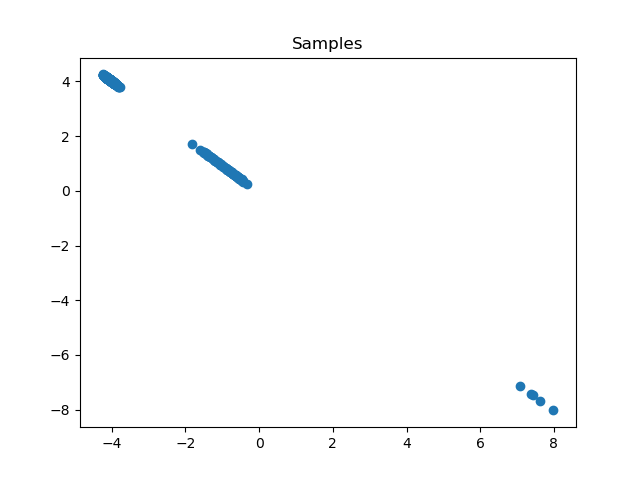
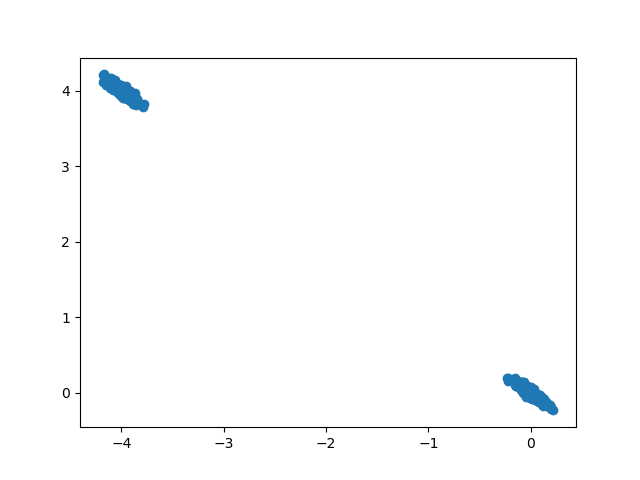
pigdm comparison p(x_0 | x_t)

diff --git a/utils/pigdm_approximations.py b/utils/pigdm_approximations.py
@@ -1,0 +1,63 @@
+import torch
+from torch.distributions.multivariate_normal import MultivariateNormal
+from models.utils import get_score_fn
+from utils.datasets import Gaussian, GaussianMixture
+from plots import plot_data
+import numpy as np
+
+#Samples from p(x_0 | x_t) = N(hat_x_t, r_t ^2 I), the approximated distribution in Pseudoinverse Guided
+#Diffusion Models.
+def pigdm_approximation(sde, model, x_t, t, num_samples, device, continuous=True):
+    x_t = x_t.unsqueeze(0)
+    score_fn = get_score_fn(sde, model, continuous=continuous)
+    sigma_t = sde.marginal_prob(x_t, t)[1]
+    r_t = torch.sqrt(torch.tensor((sigma_t ** 2) / (sigma_t ** 2 + 1))).to(device)
+    vec_t = torch.ones(x_t.shape[0], device=device) * t
+    hat_x = x_t + sigma_t * sigma_t * score_fn(x_t, vec_t)
+    std = r_t * r_t * torch.eye(x_t.shape[1]).to(device)
+    std = std.unsqueeze(0)
+    return GaussianMixture(num_samples=num_samples, mean=hat_x.cpu(), std=std.cpu())
+
+#Samples from p(x_0 | x_t) = p(x_t | x_0) p(x_0) / p(x_t), given that p(x_0) is a known Gaussian mixture.
+def true_x0_xt_density(sde, prior, x_t, t, num_samples):
+    sigma_t = sde.marginal_prob(x_t, t)[1].cpu()
+    sigma_0 = sde.marginal_prob(x_t, 0)[1]
+
+    mean = prior.mean.cpu()
+    cov = prior.cov.cpu()
+
+    new_cov = torch.inverse(torch.eye(2) / (sigma_t ** 2 - sigma_0 ** 2) + torch.inverse(cov))
+    new_mean = []
+    
+    for i in range(len(mean)):
+        new_mean.append(torch.matmul(new_cov, torch.matmul(torch.inverse(cov), mean[i])))
+
+    new_mean = torch.stack(new_mean, dim=0)
+
+    n = len(mean)
+
+    var_x_t = cov + torch.eye(2) * sigma_t ** 2
+    var_x_t = torch.maximum(var_x_t, torch.tensor(1e-6)).cpu()
+
+    denominator = 0
+    for i in range(n):
+        denominator += (1 / n) * torch.exp(MultivariateNormal(mean[i].cpu(), var_x_t).log_prob(x_t.cpu()))
+    
+    weights = []
+    for i in range(n):
+        gauss_pdf = MultivariateNormal(mean[i].cpu(), var_x_t)
+        numerator = (1 / n) * torch.exp(gauss_pdf.log_prob(x_t.cpu()))
+        weights.append((numerator / denominator).item())
+    
+    weights = np.array(weights)
+    weights /= weights.sum()
+    print(weights)
+    pdf = GaussianMixture(num_samples, new_mean, new_cov, prior=weights)
+    return pdf
+
+
+def compare(sde, model, x_t, t, num_samples, device, prior, approx_path, true_path):
+    approx = pigdm_approximation(sde, model, x_t, t, num_samples, device)
+    true = true_x0_xt_density(sde, prior, x_t, t, num_samples)
+    plot_data([approx.data.detach().cpu()], 'Approximated p(x_0 | x_t)', approx_path)
+    plot_data([true.data.detach().cpu()], 'True p(x_0 | x_t)', true_path)

diff --git a/pigdm.py b/pigdm.py
@@ -5,6 +5,7 @@ from tqdm import tqdm
 import torch
 from torch.utils.data import DataLoader
 from torch.optim import Adam
+from torch.distributions.multivariate_normal import MultivariateNormal
 
 from models.mlp import MLP, Network
 from models.utils import get_score_fn
@@ -24,6 +25,14 @@ def subprocess(args):
     config = dict2namespace(config)
     device = torch.device('cuda:3' if torch.cuda.is_available() else 'cpu')
     print('Using {} device'.format(device))
+
+    basedir = config.log.basedir
+    basedir = os.path.join('exp', basedir)
+    os.makedirs(basedir, exist_ok=True)
+    figsdir = os.path.join(basedir, 'figs')
+    os.makedirs(figsdir, exist_ok=True)
+    ckptsdir = os.path.join(basedir, 'ckpts')
+    os.makedirs(ckptsdir, exist_ok=True)
 
     model = Network(device).to(device)
     print("Loading preset weights from {}".format(config.model.ckpt_path))
@@ -61,11 +70,27 @@ def subprocess(args):
     
     start_x = torch.randn(sample_shape, device=device)
 
-    samples = sample_fn(model, y, H, std_y, start_x=start_x)
+    # approx = pigdm_approximation(sde, model, start_x[0], 1., num_samples, device, continuous=config.train.continuous)
+    # true = true_x0_xt_density(sde, prior, start_x[0], 1., num_samples)
+
+    out_dir = os.path.join(basedir, 'compare')
+
+    samples = sample_fn(model, y, H, std_y, prior=prior, start_x=start_x, out_dir=out_dir)
 
     posterior = compute_posterior(prior, y, H, std_y, config.sampling.posterior_samples)
 
-    plot_data([samples.detach().cpu()], 'Samples', 'test.png')
+    samples_path = os.path.join(figsdir, 'pigdm_samples.png')
+    posterior_path = os.path.join(figsdir, 'posterior.png')
+    prior_path = os.path.join(figsdir, 'prior.png')
+    # approx_path = os.path.join(figsdir, 'approx.png')
+    # true_path = os.path.join(figsdir, 'true.png')
+
+    plot_data([samples.detach().cpu()], 'Samples', samples_path)
+    plot_data([posterior.data.detach().cpu()], 'Posterior', posterior_path)
+    plot_data([prior.data.detach().cpu()], 'Prior', prior_path)
+    # plot_data([approx.data.detach().cpu()], 'Approximated p(x_0 | x_t)', approx_path)
+    # plot_data([true.data.detach().cpu()], 'True p(x_0 | x_t)', true_path)
+
 
 if __name__ == '__main__':
     parser = ArgumentParser()

diff --git a/sampling.py b/sampling.py
@@ -1,5 +1,6 @@
 """Various sampling methods."""
 import functools
+import os
 
 import torch
 import numpy as np
@@ -7,6 +8,7 @@ import abc
 
 from utils import sde_lib
 from models import utils as mutils
+from utils import pigdm_approximations
 
 _CORRECTORS = {}
 _PREDICTORS = {}
@@ -382,7 +384,7 @@ def get_pigdm_sampler(sde, shape, predictor, corrector, inverse_scaler, snr,
         guidance = r_t * r_t * torch.autograd.grad(mat, x)[0]
         return guidance
     
-    def pigdm_sampler(model, y, H, std_y, start_x=None, eta=1.):
+    def pigdm_sampler(model, y, H, std_y, prior=None, start_x=None, eta=1., out_dir=None):
         if start_x == None:
             x = sde.prior_sampling(shape).to(device)
         else:
@@ -393,8 +395,17 @@ def get_pigdm_sampler(sde, shape, predictor, corrector, inverse_scaler, snr,
 
         score_fn = mutils.get_score_fn(sde, model, continuous=continuous)
 
+        approx_timesteps = torch.linspace(sde.T, eps, 10, device=device)
+        print(approx_timesteps)
+
         for i in range(sde.N):
             t = timesteps[i]
+            if t in approx_timesteps and prior != None:
+                approx = 'approx{}.png'.format(t)
+                true = 'true{}.png'.format(t)
+                approx_path = os.path.join(out_dir, approx)
+                true_path = os.path.join(out_dir, true)
+                pigdm_approximations.compare(sde, model, x[0], t, shape[0], device, prior, approx_path, true_path)
             vec_t = torch.ones(shape[0], device=t.device) * t
             x, x_mean = predictor_update_fn(x, vec_t, model=model)
             x += approximate_grad_score(sde, score_fn, x, y, H, std_y, t, device=device)

diff --git a/utils/posterior.py b/utils/posterior.py
@@ -22,7 +22,7 @@ def compute_posterior(prior, y, H, std_y, num_samples=1000):
     new_mean = torch.stack(new_mean, dim=0)
     weights = compute_weights(y, mean, cov, H, std_y)
     
-    posterior = GaussianMixture(num_samples, new_mean, cov, prior=weights)
+    posterior = GaussianMixture(num_samples, new_mean, new_cov, prior=weights)
     return posterior
 
 
@@ -47,15 +47,14 @@ def compute_weights(y, mean, cov, H, std_y):
     return weights
 
 
+# mean = torch.tensor([[4.0, 4.0], [-4.0, 4.0], [0., 0.]])
+# cov = torch.eye(2) * 0.1
 
-mean = torch.tensor([[4.0, 4.0], [-4.0, 4.0], [0., 0.]])
-cov = torch.eye(2) * 0.1
+# mix = GaussianMixture(1000, mean, cov)
 
-mix = GaussianMixture(1000, mean, cov)
+# H = torch.tensor([1., 1.])
 
-H = torch.tensor([1., 1.])
+# posterior = compute_posterior(mix, 0, H, 0.1)
 
-posterior = compute_posterior(mix, 0, H, 0.1)
-
-plt.scatter(posterior.data[:, 0], posterior.data[:, 1])
-plt.savefig('test.png')
+# plt.scatter(posterior.data[:, 0], posterior.data[:, 1])
+# plt.savefig('test.png')
